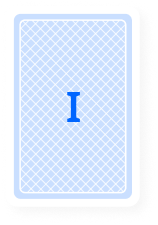
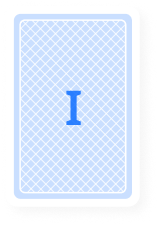
feat: 카드 슬롯 번호를 로마숫자로 변경 및 스프레드 이미지 재교체
- CardSlot 숫자 1,2,3을 I,II,III 로마숫자로 변경 (Noto Sans SemiBold)
- 스프레드 선택 이미지 on/off 매핑 수정하여 재교체

Changed region(s): [[0.4051, 0.3733, 0.5316, 0.56]]

diff --git a/src/app/layout.tsx b/src/app/layout.tsx
@@ -29,10 +29,16 @@ export default function RootLayout({
     <html lang="ko" suppressHydrationWarning>
       <head>
         <link rel="preconnect" href="https://cdn.jsdelivr.net" />
+        <link rel="preconnect" href="https://fonts.googleapis.com" />
+        <link rel="preconnect" href="https://fonts.gstatic.com" crossOrigin="anonymous" />
         <link
           rel="stylesheet"
           crossOrigin="anonymous"
           href="https://cdn.jsdelivr.net/gh/orioncactus/pretendard@v1.3.9/dist/web/static/pretendard-dynamic-subset.min.css"
+        />
+        <link
+          rel="stylesheet"
+          href="https://fonts.googleapis.com/css2?family=Noto+Sans:wght@600&display=swap"
         />
       </head>
       <body>

diff --git a/src/components/tarot/CardSlot.tsx b/src/components/tarot/CardSlot.tsx
@@ -70,9 +70,9 @@ export function CardSlot({ index, label, filled, onClick }: CardSlotProps) {
             variant="title3"
             weight="bold"
             color="semantic.label.disable"
-            sx={{ fontSize: "18px" }}
+            sx={{ fontSize: "18px", fontFamily: "'Noto Sans', sans-serif", fontWeight: 600 }}
           >
-            {index + 1}
+            {["I", "II", "III"][index]}
           </Typography>
         )}
       </FlexBox>
